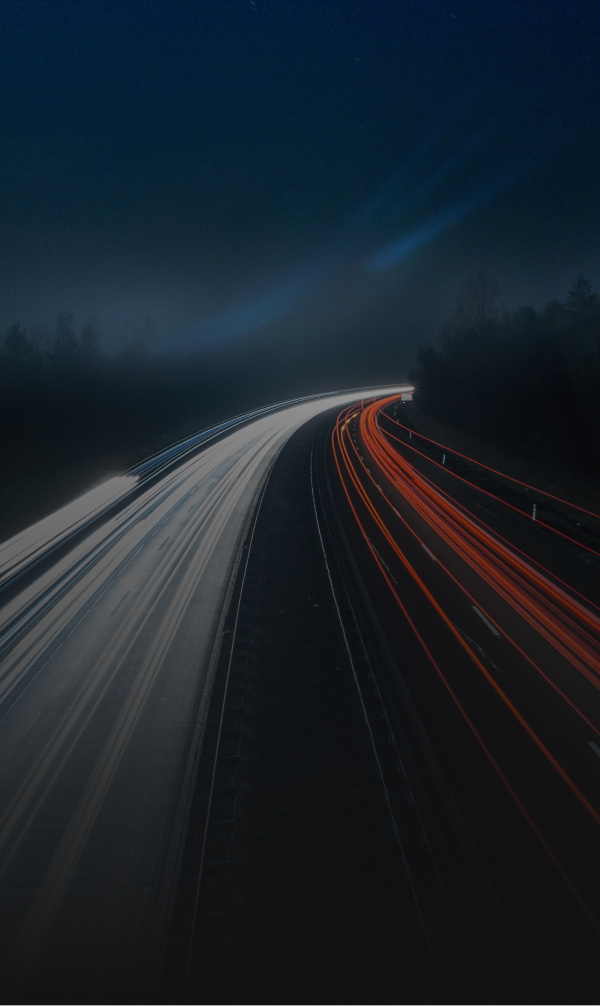
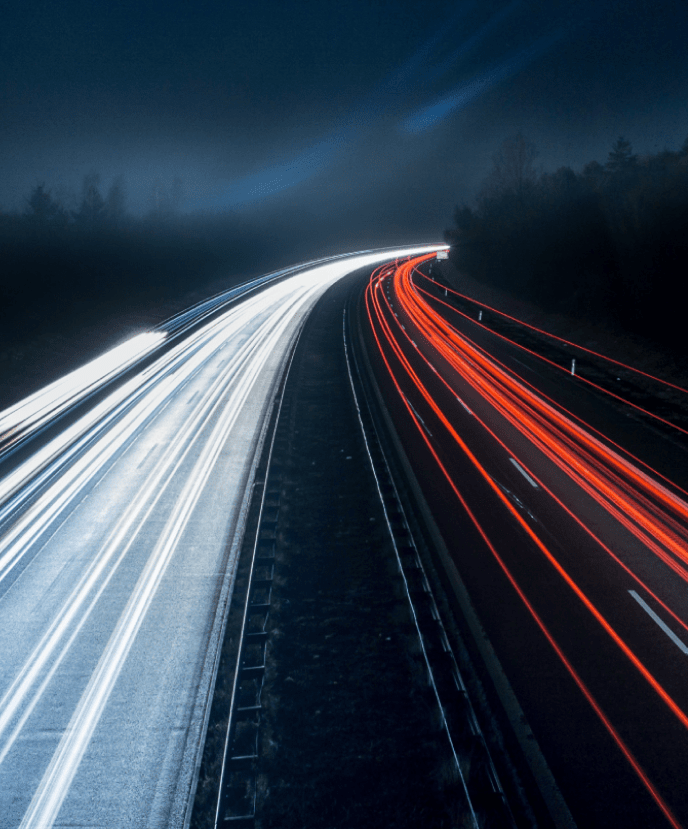
backgrounds start

diff --git a/components/Homepage/Header.vue b/components/Homepage/Header.vue
@@ -32,7 +32,7 @@ export default {}
 <style lang="scss" scoped>
 #header__section {
   color: $white;
-  min-height: 100vh;
+  height: 100vh;
   background: linear-gradient(
       180deg,
       rgba(12, 12, 12, 0) 0%,
@@ -41,7 +41,7 @@ export default {}
       $black 94.27%
     ),
     url(@/assets/images/background_laddboxkillarna_1.png);
-
+    background-position: center;
   background-size: cover;
   background-repeat: no-repeat;
   padding: 8% 10%;
@@ -71,11 +71,12 @@ export default {}
     background: linear-gradient(
         180deg,
         rgba(18, 18, 18, 0) 0%,
-        rgba(18, 18, 18, 0.87) 78.65%,
+        $black 90.00%,
         $black 100%
       ),
       url('@/assets/images/background_laddboxkillarna_1_pad.png');
     background-size: cover;
+    background-position: center;
     background-repeat: no-repeat;
 
     .text {
@@ -90,16 +91,17 @@ export default {}
 }
 @media only screen and (max-width: 600px) {
   #header__section {
+    height: 80vh;
     background: linear-gradient(
         180deg,
         rgba(18, 18, 18, 0) 0%,
         rgba(18, 18, 18, 0.87) 78.65%,
-        #121212 100%
+        $black 100%
       ),
       url('@/assets/images/background_laddboxkillarna_1_mob.png');
-
+    background-size: cover;
     background-position: center;
-
+    background-repeat: no-repeat;
     padding: 10%;
 
     .text {

diff --git a/components/Homepage/WhyUs.vue b/components/Homepage/WhyUs.vue
@@ -20,14 +20,15 @@ export default {}
 <style lang="scss" scoped>
 #whyus__section {
   font-family: $headline;
-  height: 100vh;
+  height: 80vh;
   color: $white;
   background: linear-gradient(
       180deg,
-      $black 8.54%,
-      rgba(12, 12, 12, 0.6) 49.76%,
-      rgba(12, 12, 12, 0.94) 84.44%,
-      $black 96.51%
+      #0c0d0e 12.12%,
+      rgba(12, 13, 14, 0.548469) 45.96%,
+      rgba(12, 13, 14, 0.29) 45.71%,
+      rgba(12, 13, 14, 0.92) 77.97%,
+      #0c0d0e 89.69%
     ),
     url('@/assets/images/background_roads.png');
   background-size: cover;
@@ -48,10 +49,9 @@ export default {}
   #whyus__section {
     background: linear-gradient(
         180deg,
-        #0b0b0b 8.54%,
-        rgba(11, 11, 11, 0.6) 49.76%,
-        rgba(11, 11, 11, 0.94) 84.44%,
-        #0b0b0b 96.51%
+        #0c0d0e 12.12%,
+        rgba(12, 13, 14, 0.18) 55.75%,
+        #0c0d0e 89.69%
       ),
       url('@/assets/images/background_roads_pad.png');
 
@@ -66,9 +66,9 @@ export default {}
   #whyus__section {
     background: linear-gradient(
         180deg,
-        #121212 3%,
-        rgba(18, 18, 18, 0.74) 51.56%,
-        #121212 100%
+        #0c0d0e 12.12%,
+        rgba(12, 13, 14, 0.18) 55.75%,
+        #0c0d0e 89.69%
       ),
       url('@/assets/images/background_roads_mobile.png');
 

diff --git a/pages/om.vue b/pages/om.vue
@@ -40,7 +40,13 @@ export default {}
 <style lang="scss" scoped>
 .wrapper__om {
   min-height: 100vh;
-  background-image:  linear-gradient(180deg, rgba(12, 12, 12, 0) 0%, rgba(12, 12, 12, 0.789338) 59.9%, rgba(12, 12, 12, 0.98) 88.54%, $black 94.27%),
+  background-image: linear-gradient(
+      180deg,
+      $black 0%,
+      rgba(12, 12, 12, 0.789338) 59.9%,
+      rgba(12, 12, 12, 0.98) 88.54%,
+      $black 94.27%
+    ),
     url(@/assets/images/background_laddboxkillarna_2.png);
   background-size: cover;
   background-repeat: no-repeat;
@@ -75,7 +81,7 @@ export default {}
     background-image: linear-gradient(
         180deg,
         rgba(18, 18, 18, 0.5) 0%,
-        #121212 100%
+        $black 100%
       ),
       url(@/assets/images/background_laddboxkillarna_2_pad.png);
   }
@@ -85,7 +91,7 @@ export default {}
     background-image: linear-gradient(
         180deg,
         rgba(18, 18, 18, 0.5) 0%,
-        #121212 100%
+        $black 100%
       ),
       url(@/assets/images/background_laddboxkillarna_2_mobile.png);
   }
